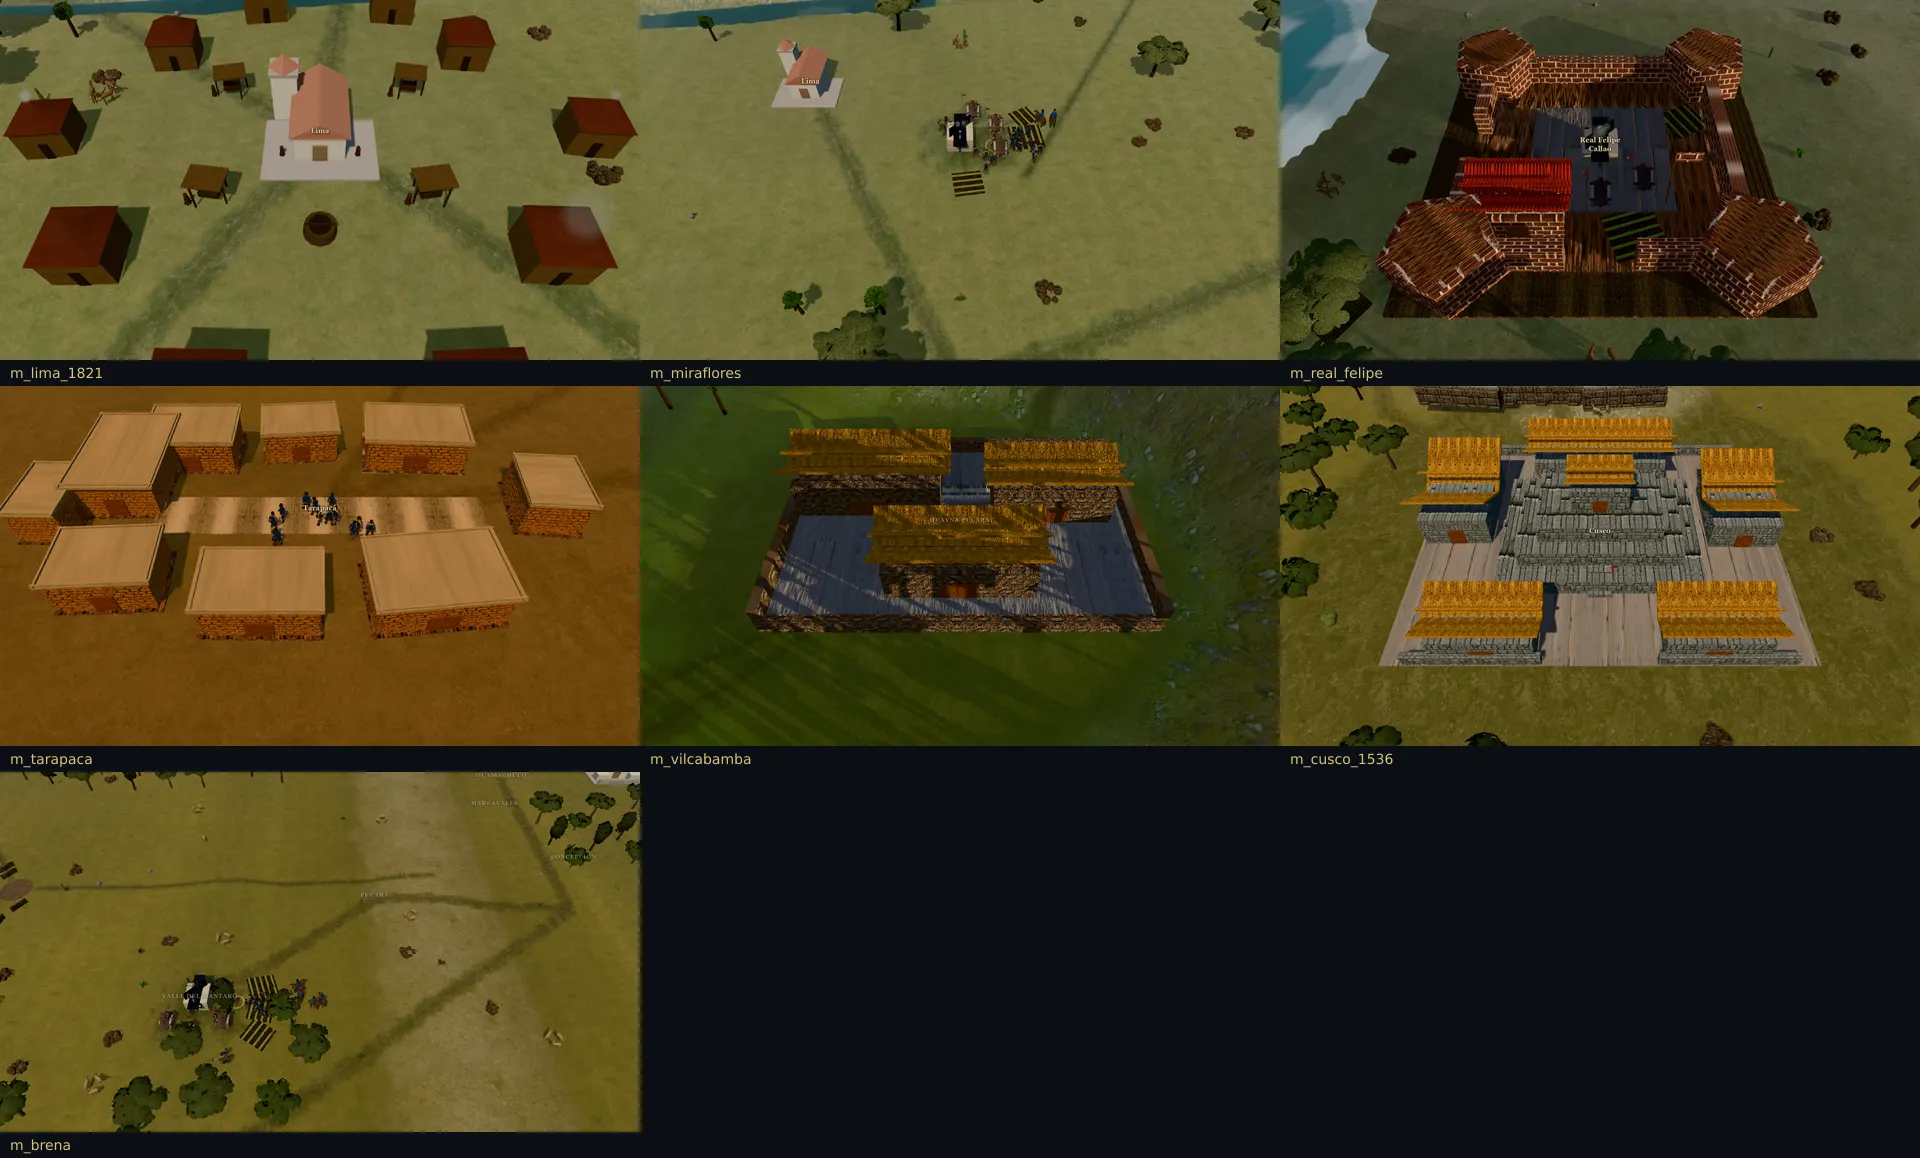
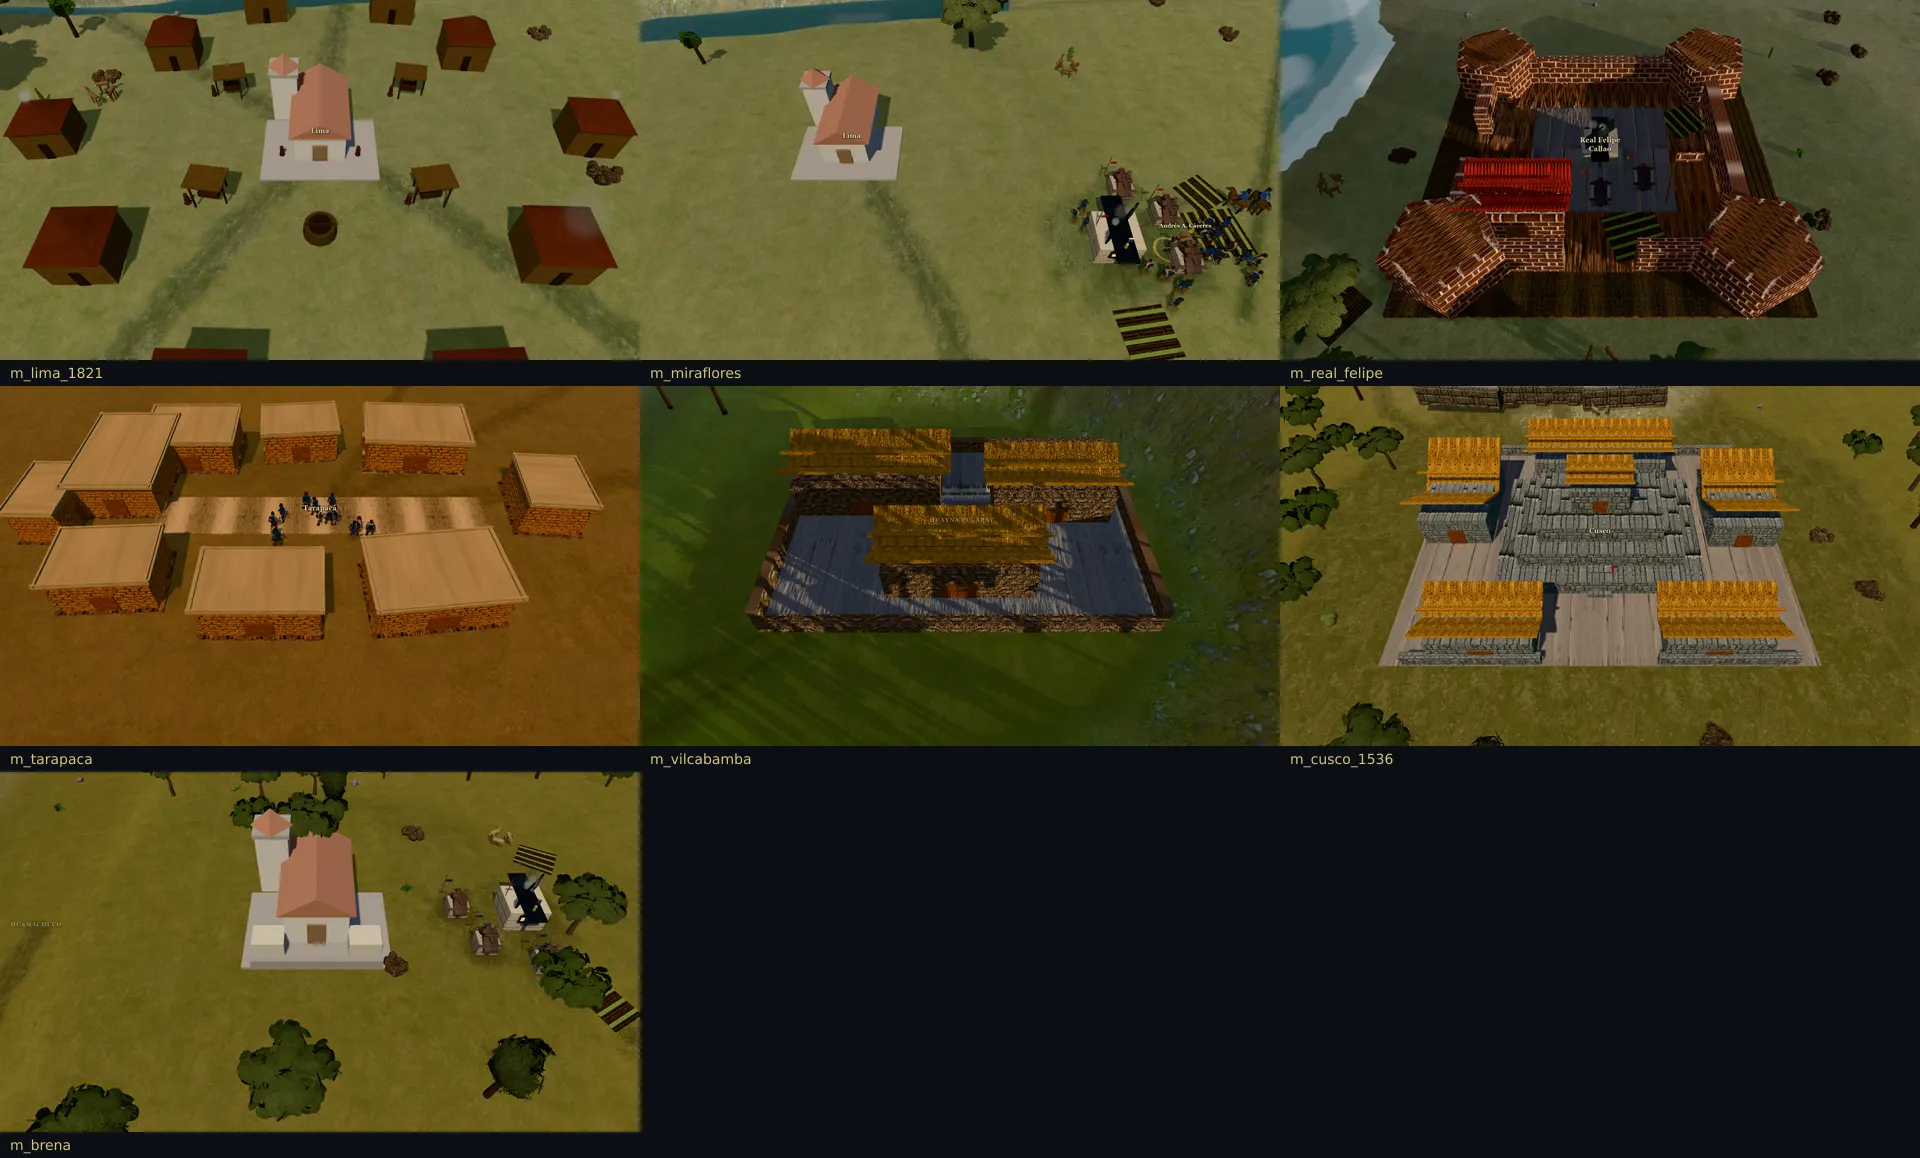
fix(art): make the review pack honest about procedural sites and safe to re-run

diff --git a/docs/design/asset-pipeline.md b/docs/design/asset-pipeline.md
@@ -138,12 +138,14 @@ decision is recorded in the quality bar.
    [`campaign-quality-bar.md`](./campaign-quality-bar.md) (`Met` or `Partial`, reviewer, date). A capture that
    becomes the reference goes to `docs/media/` with its PROVENANCE section; every `Major` becomes a backlog row
    with its before/after.
-4. The sheet is review evidence, not shipped art: `docs/media/site-review-<date>.webp` is the precedent for
-   committing it, and the individual captures stay in `review/` (gitignored).
+4. The sheet is review evidence, not shipped art: the composed WebP may be committed under `docs/media/` with
+   its PROVENANCE section (the single exception to "no `review/` artifact is committed" — the individual
+   captures still stay in `review/`, gitignored).
 
-The tool frames each mission from its mapping table (`at`/`height`), or keeps the mission's own opening
-camera (`authored: true`) where the site is drawn procedurally around the played area instead of under a
-named object — say so in the worksheet if a capture is not a close-up.
+The tool frames each mission from its mapping table (`at`/`height`); where a site is marked `hideModel`, no
+reused GLB is drawn and the mission builds its own scenery, so the worksheet's "Qué muestra la captura" column
+says what the cell actually contains. The same run twice is not byte-identical (units, clouds and particles
+move): the framing and the checklist are what is reproducible.
 
 ## Commands
 
@@ -169,7 +171,8 @@ named object — say so in the worksheet if a capture is not a close-up.
 - [ ] Render has a manifest record, `confidence`, `reviewed` and a human reviewer when approved.
 - [ ] GLB is recorded in `PROVENANCE.md` and, where the source kit uses a CSV, the CSV row is updated.
 - [ ] The asset does not invent a historical detail; uncertainty is labelled.
-- [ ] No `review/` artifact is committed.
+- [ ] No `review/` artifact is committed (the one exception is a composed review sheet, committed under
+  `docs/media/` with its PROVENANCE section).
 - [ ] The RTS view and, for characters, `?rig=1` were checked.
 - [ ] `yarn verify:fast` and the relevant tests pass.
 
@@ -188,7 +191,7 @@ named object — say so in the worksheet if a capture is not a close-up.
 
 ## Do not
 
-- Do not commit generated `review/` captures or backups.
+- Do not commit generated `review/` captures or backups (a composed review sheet is the exception above).
 - Do not use AI-generated art as final historical art without review and licence.
 - Do not present a draft render or a stylized portrait as a historical photograph.
 - Do not add a runtime dependency, MCP server or CI service for an asset.

diff --git a/PROVENANCE.md b/PROVENANCE.md
@@ -1042,6 +1042,21 @@ slot is absent (offline / without assets).
     select the palette, garments and runtime hero attire. No new body/mesh is added, so other campaigns are
     unchanged. The dedicated Tambotoco hero sculpt remains E4b.
 
+### Site review pack: the seven missions of 2026-11-18 (in-engine)
+
+- **Location**: `docs/media/site-review-2026-11-23-new-missions.webp`, 1920x1158 WebP q78 (3x3 contact sheet,
+  one cell per mission; the individual 1600x900 PNGs stay in `review/site-review/`, gitignored).
+- **Source**: `yarn capture:sites --only=new --sheet=docs/media/site-review-2026-11-23-new-missions.webp`
+  (`scripts/capture_site_review.mjs`): loads each mission, starts it, advances the site phase, hides the HUD,
+  pins the high preset and frames the site from the table (`at`/`height`, or the mission's own opening camera
+  for `m_miraflores` and `m_brena`, whose sites are drawn procedurally).
+- **Content**: Lima 1821 (colonial city), Miraflores (redoubt line), Real Felipe (bastioned trace), Tarapacá
+  (village), Vilcabamba (fort), Cusco 1536 (plaza) and Breña (Huamachuco). These are game captures, never
+  historical photographs, and they are **review evidence**: the human decision is recorded in the quality bar,
+  not in this file.
+- **Review**: pending. The worksheet with the eight-point checklist and one row per mission is
+  `review/site-review/decisions.md`; the procedure is `docs/design/asset-pipeline.md` §"In-engine site review".
+
 ### Late-view performance evidence (in-engine)
 
 - **Location**: `docs/media/late-view-before-after.webp`, 1520x944 WebP q82.

diff --git a/docs/plan/ROADMAP.md b/docs/plan/ROADMAP.md
@@ -61,7 +61,8 @@ evidence. No model-mission rebuild remains.
    mission plus `review/site-review/decisions.md`, and the contact sheet is
    [`../media/site-review-2026-11-23-new-missions.webp`](../media/site-review-2026-11-23-new-missions.webp).
    The human decision is still open (B15–B17); the procedure is in
-   [`../design/asset-pipeline.md`](../design/asset-pipeline.md) §"In-engine site review".
+   [`../design/asset-pipeline.md`](../design/asset-pipeline.md) §"In-engine site review". The seven also keep
+   their own media captures under `public/media/{lima-1821,real-felipe,tarapaca,miraflores,brena,cusco-1536,vilcabamba}/`.
 
 The release-candidate document is an **archived snapshot** from 2026-10-30. Use its checklist as a template,
 but record today's counts and hashes in a new status document or PR, not by editing the snapshot.
